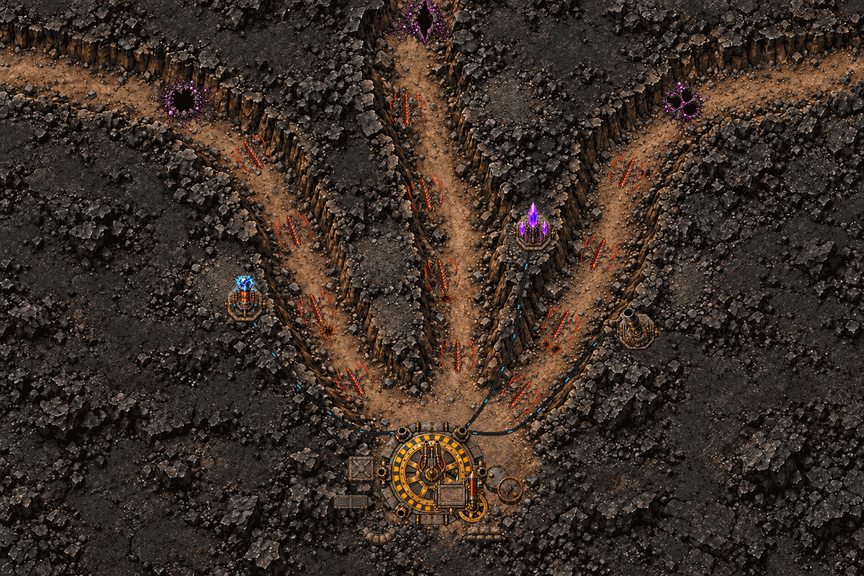
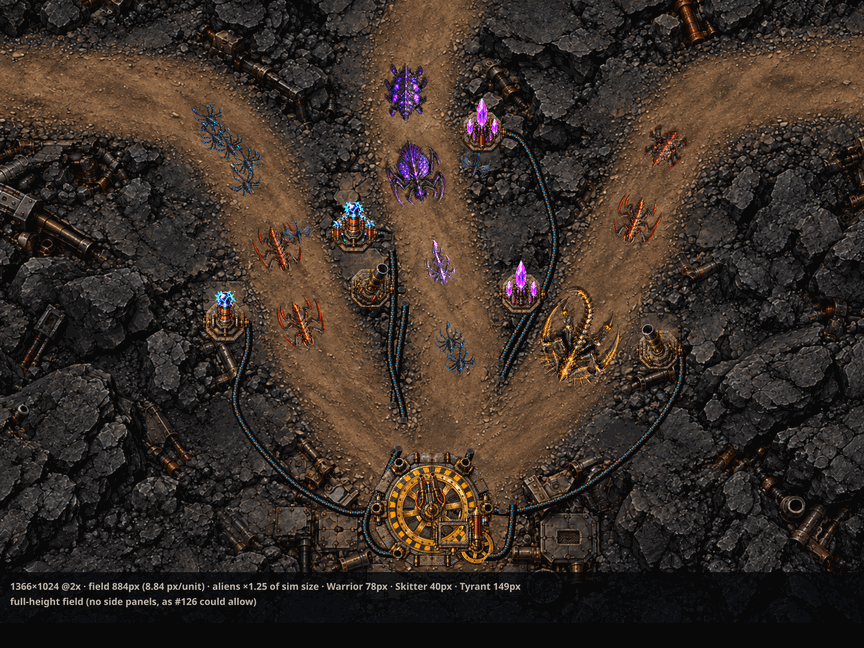
Dynamo Defense: restore detailed curved battlefield with wide routes and real-rig preview

diff --git a/public/td/environment/MAP_INTEGRATION.md b/public/td/environment/MAP_INTEGRATION.md
@@ -1,58 +1,78 @@
-# Painted map integration
+# Painted battlefield integration
 
-The user approved a fixed painted landscape following trench-mockup.png.
-This supersedes the old ground-tile/lip-strip design in #131/#133.
-This PR supplies art and geometry; it does not change game code.
+This is one fixed painted map. Routes are level worn earth/rock with low rubble shoulders.
+The owner returned to the richer original material direction. No procedural map assembly or variable layouts.
+The production PR changes assets and geometry data only, not game code.
 
-## Registered coordinates
+## Registration (unchanged)
 
-background.webp is 1536×1024. Its 100×100 world field occupies image
-rectangle [318,32,900,900]. Outpost [50,90] maps to image [768,842].
-For a renderer field origin (fieldX,fieldY) and square size fieldSize:
+background.webp: 1536×1024; field image rectangle [318,32,900,900],
+100×100 field units. Outpost [50,90] maps to image [768,842].
 
     imageScale = fieldSize / 900
     imageX = fieldX - 318 * imageScale
     imageY = fieldY - 32 * imageScale
-    draw image at (imageX,imageY), size (1536,1024) * imageScale
+    drawImage(background, imageX, imageY, 1536*imageScale, 1024*imageScale)
     actorX = fieldX + worldX * fieldSize / 100
     actorY = fieldY + worldY * fieldSize / 100
 
-Terrain and actors must share this transform. Do not independently cover-scale
-terrain while preserving the old actor transform. The portrait proof crops the
-same image at x318..1218. Outer viewport space can use a rock-colored backdrop.
-The side spawns intentionally begin outside the world field.
+Terrain and actors share this transform. The side spawns start outside the field.
 
-## Adopt lanes and pads together
+## Adopt map-layout.json in the shared simulation/renderer definitions
 
-Left/center control points exactly retain current sim/defs.ts. The right-hand
-lane follows the authored brown floor with controls:
-[103,16], [84,18], [87,66], [50,90]. Its original controls are retained in
-previousControls. This minor path revision keeps creatures off the cut face.
-Update the shared lane table when integrating this map, not only render geometry.
+All three curves exactly retain the previous #138 map-layout.json controls.
+Left: [-3,16],[28,18],[18,66],[50,90].
+Centre: [50,-3],[34,28],[66,52],[50,90].
+Right: [103,16],[84,18],[87,66],[50,90].
+The earlier simulation right controls remain in previousControls for reference.
+Do not trace or refit these curves. floorWidth=13 (6.5 either side), bankWidth=1.25
+per side. The shared apron has an 11-unit radius at [50,90].
 
-Existing PADS are eight units off lane centers, too close to the richer banks.
-map-layout.json supplies all six new positions, original positions, stable ids,
-lane assignments and near/far flags. Apply them in the shared sim/render pad
-source so targeting, build selection, auto-crew, cables and art stay aligned.
-Each 4.2-unit-radius footprint has >=1 unit of clearance beyond the intended
-bank extent (floor half-width 4 + bank width 2), and pad centers are >=17 units
-from the outpost. Numeric clearance and whole-footprint rock-top material checks accompany
-registration.png/all-six-pads.png; material support is measured on the retained
-source PNG and codec fidelity is verified separately.
-Painted rim shapes vary organically; review the actual assembly as well.
+Six plateau pads, radius4.2, stable ids and lane assignments, one near and one
+far per lane. Each centre is 13–16 units from its assigned curve and at least
+12.95 from every curve: floor half-width6.5 + shoulder1.25 + pad4.2 + clearance1.
+All centres are at least17 units from the outpost. previousPosition is preserved
+unchanged; archive/map-layout-deep-v2.json on the working branch also retains
+the immediately preceding painted-map placements. Apply lanes/pads together
+so targeting, selection, movement and art agree. Integration remains #133.
 
-## Separate layers and proofs
+## Layers (unchanged)
 
-The background contains only terrain and its intrinsic geological shading.
-Actors, machinery, cables, emission, creep, burrows, splats and props remain
-separate. Existing tower/outpost PRs supply machinery; this folder supplies
-27 overlays. The preview uses those exact exported rigs and the original Warrior.
-Its illustrative cables belong to the proof renderer, not a new cable asset kit.
+Background is opaque terrain only. Towers, outpost, aliens, cables, creep,
+burrows, splats, props and emissions stay separate. All 54 overlay PNGs are
+byte-identical to the preceding #138 delivery. manifest.json.size is the
+canonical 512×512 overlay frame; background.size is the separate full image.
+Place each overlay by its pivot and offset; glow uses alpha-weighted additive
+RGB once. Neutral splats multiply by brood RGB. Props have clear glow masks.
 
-manifest.json.size is the canonical 512×512 overlay registration frame;
-background.size is the separate painted image. Place each overlay pivot at its
-world position, preserving its offset relative to that pivot. Purple organic
-emission and neutral white splat emission remain independently controllable.
+## Real-puppet proof and cabling handoff
 
-preview.png is a reduced scene proof; overlays-preview.png shows all overlays
-and brood tints. Neither is a runtime background or a claim of integration.
+Current proof: mockups/curved-wiring/real-sprites.png on the working branch.
+It uses the unchanged original-style painting, actual alien rigs, PR135 tower
+and PR136 outpost exports at1366×1024CSS,deviceScale2. Eight alien species,
+all six towers and the outpost use their real sim-derived/manifest sizes.
+The proof renderer connects each tower to a unique cable_1..6 deck socket,
+using actual transformed anchor positions. Armoured texture follows curved
+routes with return hoses; short floor crossings are buried with flush covers.
+Wiring draws beneath all actors and machinery, never through the flywheel.
+
+Cabling is renderer-owned review work, not baked into background.webp and not
+a new production cable kit. Source texture, route/capture scripts, actual
+endpoints and hashes are in mockups/curved-wiring/. Path/pad data unchanged by
+that exploration. The sharp tactical waypoint study is not adopted.
+
+preview.png is a reduced current curved-wiring proof from the source painting;
+overlays-preview.png shows the unchanged kit and brood tints. Neither is a
+runtime background. Earlier proofs/ screenshots and384 Warrior gait poses
+belong to the rejected smooth-floor painting; they do not certify this source.
+
+terrain-measurements.json reports decoded meanRGB, Rec.709-weighted encoded
+sRGB display value and linear relative luminance separately. Masks cover the
+registered field and apron, excluding shoulders. The owner returned to richer
+textured materials: neutral stones and warm industrial ruins make old hue,
+colour-target and calm-plateau checks diagnostic rather than compliance claims.
+Numeric geometry, centreline support, codec fidelity and overlay checks remain.
+Final proof captures: proofs/current/, all three exact requested iPad URLs and
+384 maximum-offset Warrior poses. No solid pixels outside13-unit geometry;
+99.9577% of sampled footprint pixels are warm dirt; neutral stones explain the
+remaining0.0423%. Source hashes and zero browser errors are recorded in JSON.

diff --git a/public/td/environment/NOTES.md b/public/td/environment/NOTES.md
@@ -1,38 +1,37 @@
-# Dynamo Defense painted battlefield — issue 131
+# Dynamo Defense environment — curved original-style revision of PR138
 
-Art: OpenAI image_gen.imagegen, guided by the approved trench-mockup.png.
-The user approved replacing tiled terrain with one cohesive painted fixed map.
-Processing/proofs: Pillow/NumPy; no contrast or darkness flattening of terrain.
-Work: codex/td-environment-work, docs/towerdefense/concept/codex/environment/.
-FILES.txt enumerates every production file; SHA256SUMS.txt hashes them.
+Terrain generated/edited with OpenAI image_gen.imagegen; WebP export with Pillow.
+Fixed1536×1024 painting; registered field [318,32,900,900]. Game code unchanged.
+13-unit route envelopes; low1.25-unit shoulders; level worn dirt/rock routes.
+Original-style detailed basalt and worn industrial remnants; shared apron and six pads.
+All three curves and previousPosition fields retained from the preceding map.
 
-background.webp: opaque 1536×1024 rock plateaus and sunken dirt trenches,
-full original resolution, WebP quality 92. Geological shading and ambient
-occlusion are intrinsic to the landscape. No baked creatures, machinery,
-cables, luminous creep, splats, industrial props or weapon effects.
-map-layout.json: registered world field, three fixed lane curves, outpost
-center and six plateau pads. Left/center curves retain sim/defs.ts; the right
-curve is traced to the painted floor. Original coordinates are included.
-MAP_INTEGRATION.md documents the required shared lane/pad integration changes.
-Game code is unchanged; this artwork is not yet integrated into gameplay.
-manifest.json: schema v2; fixed background plus 27 independent overlay pieces.
-Old tile/lip PNGs are removed from production; rejected v1 is archived on work.
 
-parts/creep_1..6.png: veined purple-black growth and independent emission.
-parts/burrow_1..3.png: independently placed hive mouths.
-parts/splat_1..6.png: neutral-grey masters for blue/red/purple/gold tinting.
-parts/props_*.png: 12 rock, crate, barrel, barrier, sandbag, junction, vent props.
-Every piece has a same-size *_glow.png; non-emissive props have clear masks.
-Offsets/visual-center pivots use an independent canonical 512×512 frame.
+Files produced/updated in this revision (exact names):
+background.webp; map-layout.json; MAP_INTEGRATION.md; NOTES.md; preview.png;
+FILES.txt; SHA256SUMS.txt. All other files are retained byte-for-byte:
+manifest.json, overlays-preview.png and54 PNGs in parts/.
+FILES.txt is the exact complete63-file production inventory; SHA256SUMS.txt
+hashes every other file (including FILES.txt). No obsolete terrain tiles/strips.
 
-preview.png: scripted scene from exported terrain/layout/overlays and actual
-accepted #129/#130 rig references: three built towers on plateau, the original
-Warrior and illustrative cables. Full-color full-size proof is on work.
-overlays-preview.png: all 27 pieces, neutral splats, all four brood tints,
-and glow-off examples. Both are review images, not runtime backgrounds.
-Tower/outpost/Warrior reference assets are not bundled production assets.
+preview.png: reduced real-puppet curved-wiring mockup of the source painting,
+#135 tower and #136 outpost exports, and all eight actual alien rigs at sim size.
+Full2732×2048 proofs and cabling source/render scripts live on the working branch.
+overlays-preview.png: all27 retained pieces, neutral splats, four brood tints,
+glow-off examples. Both are review images; background has no actors/effects.
 
-Validation: full-resolution decode/detail, compression fidelity, fixed curves,
-all six full pad footprints beyond banks, terrain support along all paths,
-alpha/glow registration, tinting, source completeness, padding, no green fringe,
-complete inventories, checksums and the <1.5MB production budget.
+Retained overlays: creep_1–6, burrow_1–3, splat_1–6; props_boulder,
+props_boulder_split, props_crate, props_ammo_crate, props_barrel,
+props_coolant_barrel, props_barrier, props_barrier_broken, props_sandbags_curve,
+props_sandbags_straight, props_junction, props_vent. Each has its matching
+_glow.png; all offsets, pivots, alpha and emission layering are unchanged.
+
+Working branch: codex/td-environment-work, folder
+ docs/towerdefense/concept/codex/environment/.
+measure.py/terrain-measurements.json: geometry-masked actual decodedRGB/value.
+mockups/curved-wiring/: six actual socket connections and textured curved feeds.
+The cables are a local proof renderer, not baked scenery or production cable assets.
+proofs/current/: three exact iPad URL captures and384 Warrior offset poses.
+No solid pixels exceed the13-unit envelope;0.0423% sample neutral floor stones.
+MAP_INTEGRATION.md describes required shared lane/pad adoption under #133.
+No live gameplay integration or actual hardware-browser test is claimed.
